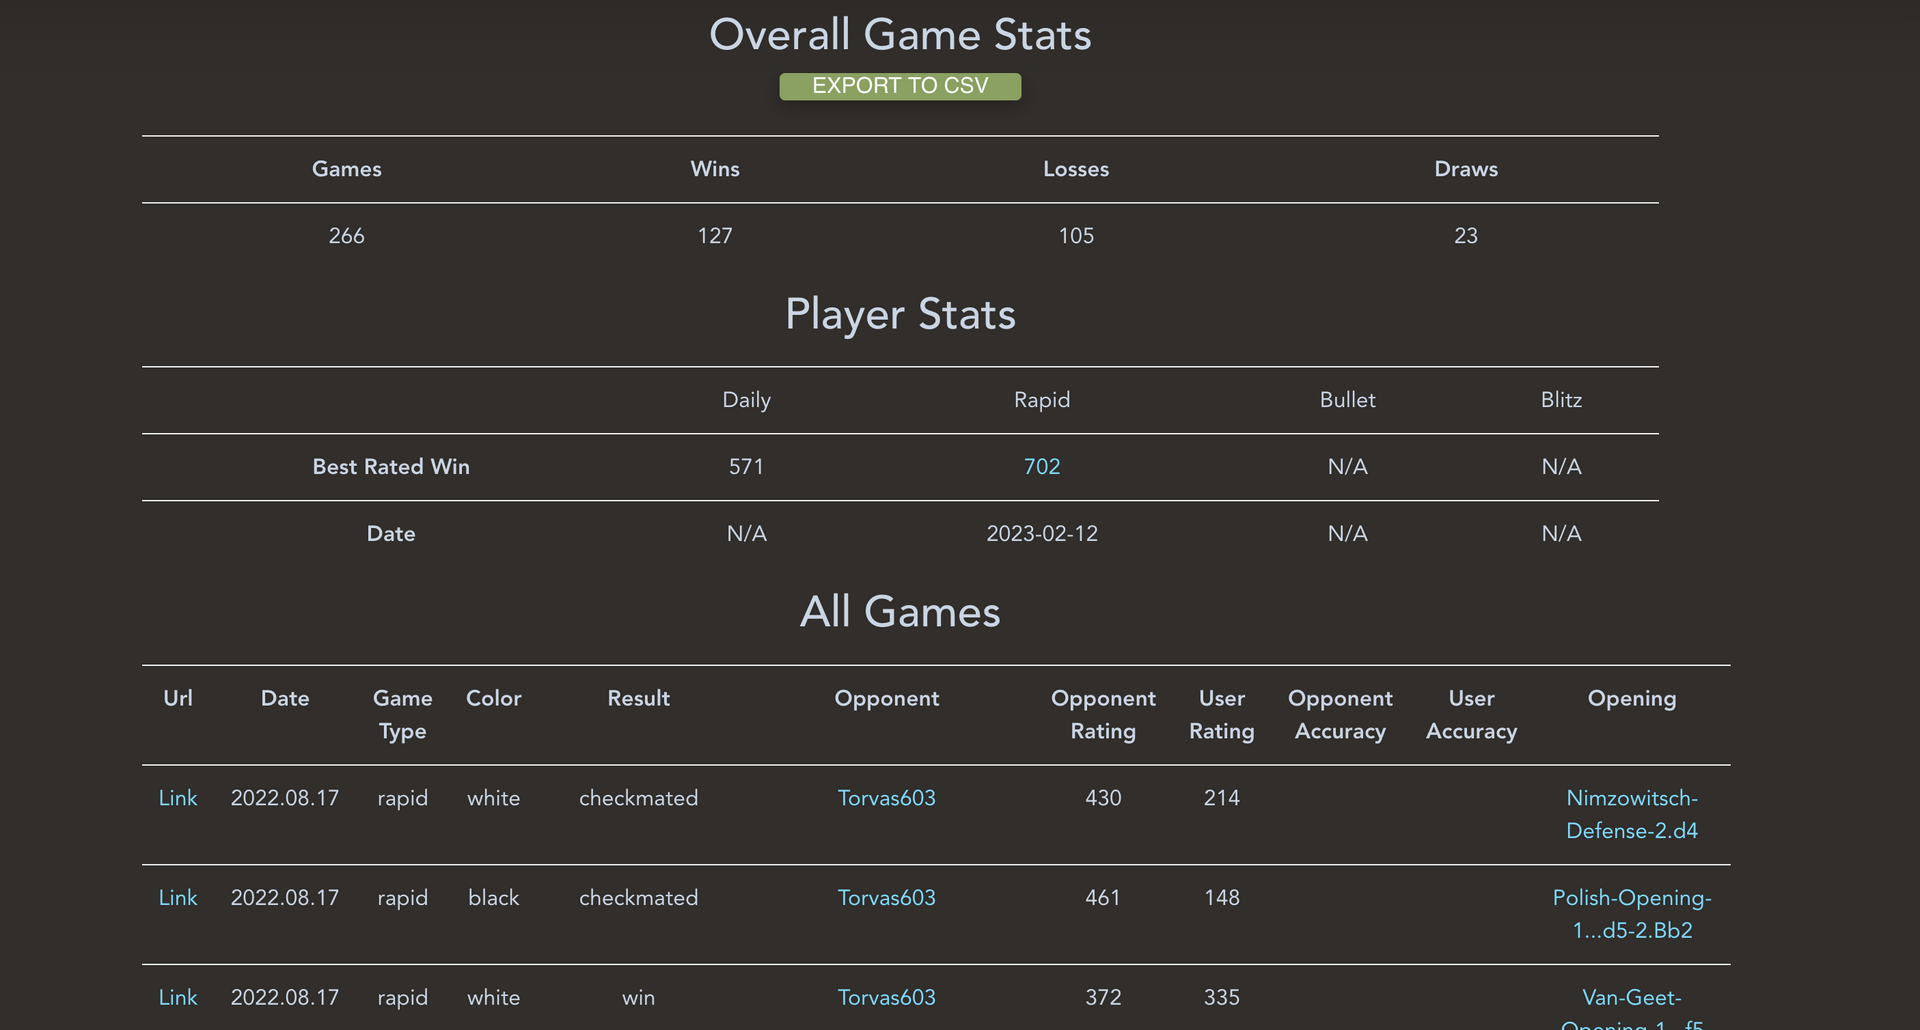
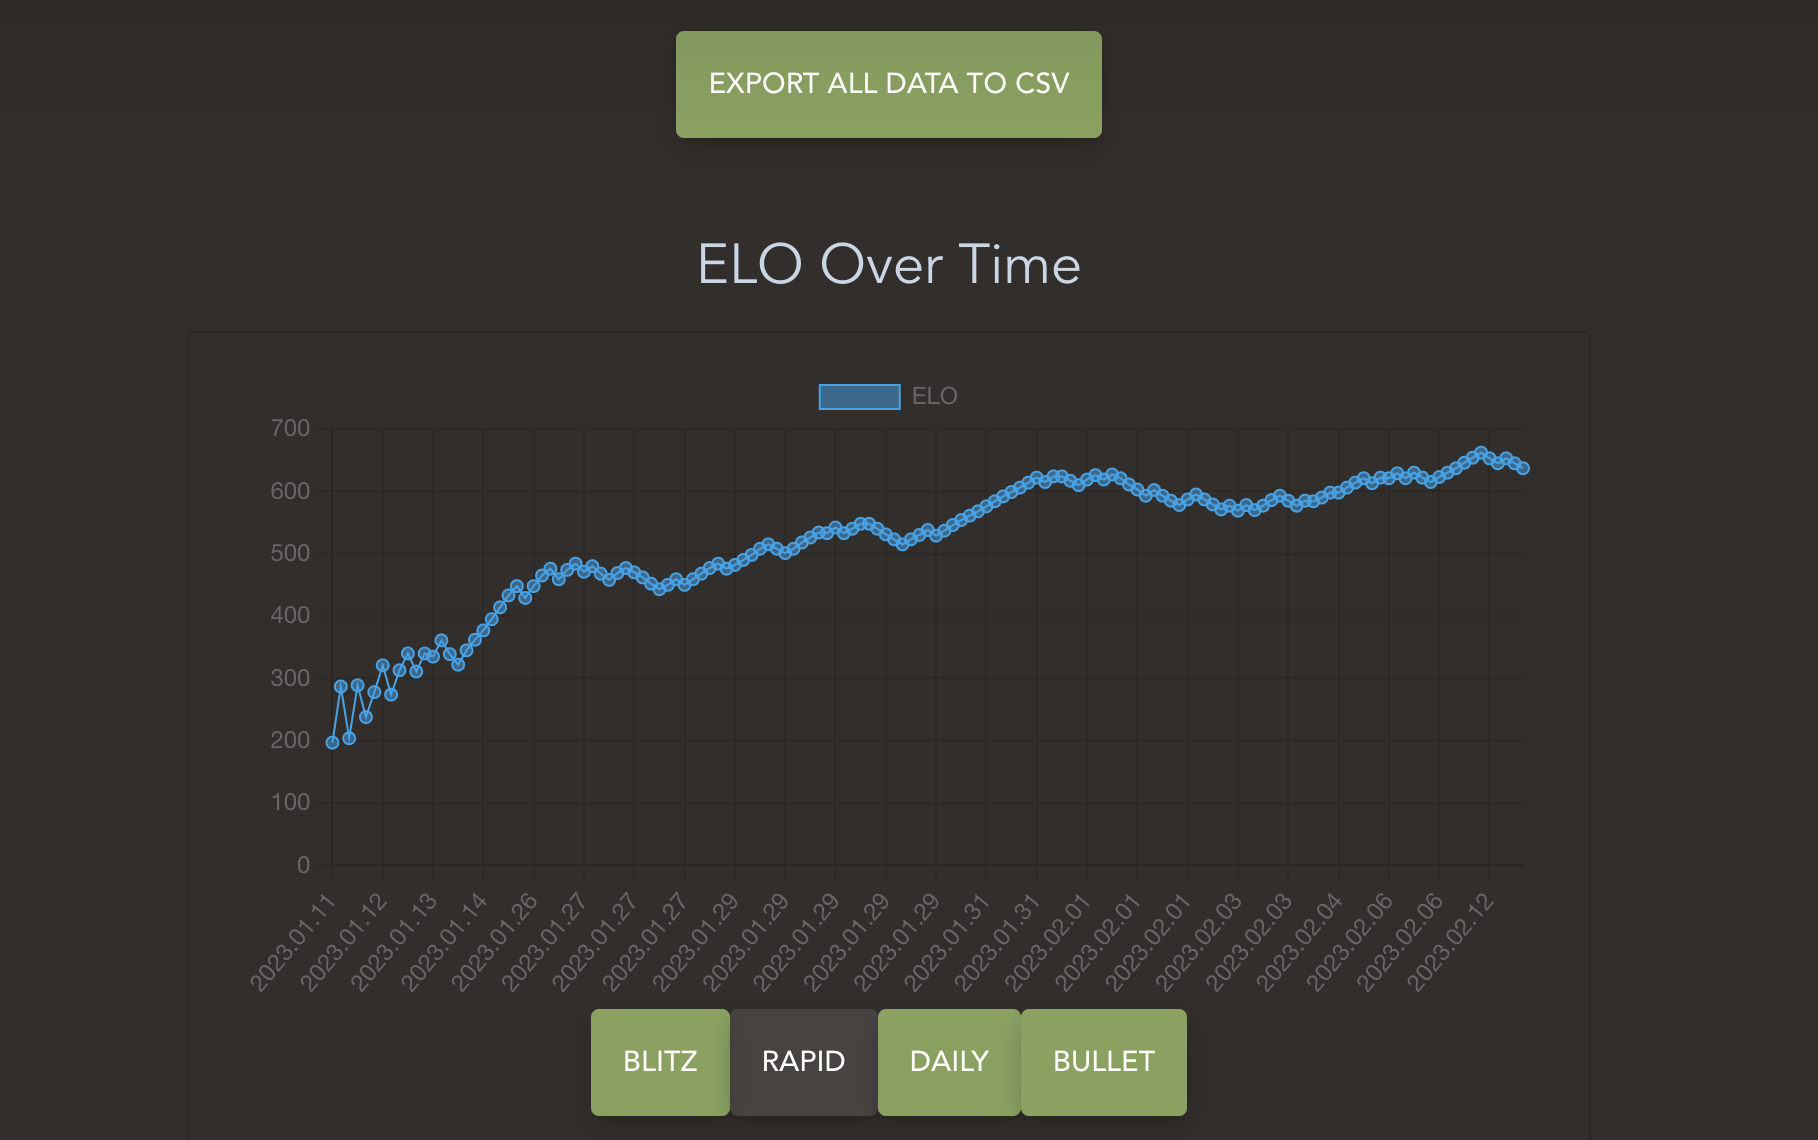
readme stuff

diff --git a/js/writeData.js b/js/writeData.js
@@ -28,37 +28,48 @@ function eloOverTime(timeClass="rapid"){
 
       eloStr = "";
 
-      eloStr += `<h3  > ELO Over Time </h3>`;
+      eloStr += `<h3> ELO Over Time </h3>`;
       eloStr += "<div class='row'>";
       // eloStr += "<div class='col-12'>";
-      // eloStr += "<div class='card'style='width: 75%; height: 100%; margin: auto;  background-color: rgba(255, 255, 255, 0.0);'>";
-      // eloStr += "<div class='card-body'>";
+      eloStr += "<div class='card'style='width: 75%; height: 100%; margin: auto;  background-color: rgba(255, 255, 255, 0.0);'>";
+      eloStr += "<div class='card-body'>";
 
       eloStr += "<canvas id='eloOverTime'></canvas>"
 
-      // eloStr += "</div>";
-      // eloStr += "</div>";
+      let btnList = ["blitz", "rapid", "daily","bullet"];
+      for (var i=0; i<btnList.length; i++){
+            
+          if (btnList[i] == timeClass){
+            eloStr += "<button class='btn active ' onclick=eloOverTime('"+btnList[i]+"')>"+btnList[i].toUpperCase()+"</button>";
+          }
+          else {
+            eloStr += "<button class='btn btn-primary ' onclick=eloOverTime('"+btnList[i]+"')>"+btnList[i].toUpperCase()+"</button>";
+          }
+
+      }
+      eloStr += "</div>";
+      eloStr += "</div>";
       // eloStr += "</div>";
       eloStr += "</div>";
 
 
-      eloStr += "<div id='graphBtns' class='row'>";
+      // eloStr += "<div id='graphBtns' class='row'>";
       
-      let btnList = ["blitz", "rapid", "daily","bullet"];
-      for (var i=0; i<btnList.length; i++){
+      // let btnList = ["blitz", "rapid", "daily","bullet"];
+      // for (var i=0; i<btnList.length; i++){
             
-          eloStr+="<div class='col'>"  
-          if (btnList[i] == timeClass){
-            eloStr += "<button class='btn active graphics' onclick=eloOverTime('"+btnList[i]+"')>"+btnList[i].toUpperCase()+"</button>";
-          }
-          else {
-            eloStr += "<button class='btn btn-primary graphics' onclick=eloOverTime('"+btnList[i]+"')>"+btnList[i].toUpperCase()+"</button>";
-          }
+      //     eloStr+="<div class='col'>"  
+      //     if (btnList[i] == timeClass){
+      //       eloStr += "<button class='btn active graphics' onclick=eloOverTime('"+btnList[i]+"')>"+btnList[i].toUpperCase()+"</button>";
+      //     }
+      //     else {
+      //       eloStr += "<button class='btn btn-primary graphics' onclick=eloOverTime('"+btnList[i]+"')>"+btnList[i].toUpperCase()+"</button>";
+      //     }
 
-          eloStr+="</div>"  
-      }
+      //     eloStr+="</div>"  
+      // }
 
-      eloStr += "</div>"; 
+      // eloStr += "</div>"; 
       eloDiv.innerHTML += eloStr;
       // insightsDiv.prepend(eloDiv);
       insightsDiv.insertBefore(eloDiv, insightsDiv.children[1]);

diff --git a/README.md b/README.md
@@ -3,6 +3,7 @@
 Chess stats is a tool that allows you to export all of your chess.com data. 
 ![img](imgs/demo.png)
 ![img](imgs/demo2.png)
+![img](imgs/demo3.png)
 
 ### API Endpoints
 
